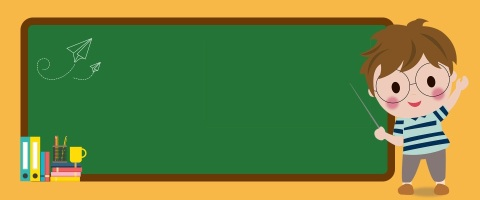
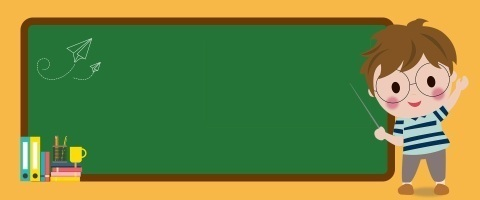
Update img post my class teacher

Changed region(s): [[0.0312, 0.69, 0.1875, 0.9]]

diff --git a/client/src/pages/teacher/my-class/post/TeacherPostMyClass.js b/client/src/pages/teacher/my-class/post/TeacherPostMyClass.js
@@ -1,5 +1,5 @@
 import "./styleTeacherPostMyClass.css";
-import { Button, Card, Dropdown, Menu, Row } from "antd";
+import { Button, Card, Dropdown, Menu, Modal, Row } from "antd";
 import { useEffect } from "react";
 import { useState } from "react";
 import { useParams } from "react-router";
@@ -31,7 +31,8 @@ const TeacherPostMyClass = () => {
   const [currentPage, setCurrentPage] = useState(1);
   const [totalPage, setTotalPage] = useState(0);
   const [seeMore, setSeeMore] = useState(true);
-
+  const [idDelete, setIdDelete] = useState("");
+  const [visibleDelete, setVisibleDelete] = useState(false);
   useEffect(() => {
     window.scrollTo(0, 0);
     document.title = "Bảng điều khiển - bài viết";
@@ -69,6 +70,7 @@ const TeacherPostMyClass = () => {
     setShowUpdate(value);
     setShowUpdateIndex(null);
   };
+
   const featchPost = async (idClass) => {
     setLoading(false);
     try {
@@ -76,7 +78,7 @@ const TeacherPostMyClass = () => {
         idClass: idClass,
         idTeacher: giangVienCurrent.id,
         page: currentPage,
-        size: 5,
+        size: 8,
       };
       await TeacherPostAPI.getPagePost(data).then((responese) => {
         dispatch(SetPost(responese.data.data.data));
@@ -93,7 +95,7 @@ const TeacherPostMyClass = () => {
         idClass: idClass,
         idTeacher: giangVienCurrent.id,
         page: currentPage,
-        size: 5,
+        size: 8,
       };
       await TeacherPostAPI.getPagePost(data).then((responese) => {
         dispatch(NextPagePost(responese.data.data.data));
@@ -111,6 +113,20 @@ const TeacherPostMyClass = () => {
     } catch (error) {
       alert("Lỗi hệ thống, vui lòng F5 lại trang !");
     }
+  };
+
+  const showModal = (id) => {
+    setVisibleDelete(true);
+    setIdDelete(id);
+  };
+  const handleOkDelete = () => {
+    clickDelete(idDelete);
+    setVisibleDelete(false);
+    setIdDelete("");
+  };
+  const handleCancelDelete = () => {
+    setVisibleDelete(false);
+    setIdDelete("");
   };
   const clickDelete = async (id) => {
     try {
@@ -133,10 +149,19 @@ const TeacherPostMyClass = () => {
     }/${date.getFullYear()} ${date.getHours()}:${date.getMinutes()} `;
     return format;
   };
-
   const data = useAppSelector(GetPost);
   return (
     <>
+      <Modal
+        title="Xác nhận xóa"
+        visible={visibleDelete}
+        onOk={handleOkDelete}
+        onCancel={handleCancelDelete}
+        okText="Xóa"
+        cancelText="Hủy"
+      >
+        <p>Bạn có chắc chắn muốn xóa bài viết?</p>
+      </Modal>
       {!loading && <LoadingIndicator />}
       <div className="box-one">
         <Link to="/teacher/my-class" style={{ color: "black" }}>
@@ -231,13 +256,7 @@ const TeacherPostMyClass = () => {
               <hr />
             </div>
           </div>
-          <div
-            className="box-image"
-            style={{
-              height: "200px",
-              width: "100%",
-            }}
-          ></div>
+          <div className="box-image"></div>
           <div className="box-post">
             <div className="box-post-left">
               <div className="box-infor" style={{ height: "140px" }}>
@@ -407,7 +426,7 @@ const TeacherPostMyClass = () => {
                                           </Menu.Item>
                                           <Menu.Item
                                             key="2"
-                                            onClick={() => clickDelete(item.id)}
+                                            onClick={() => showModal(item.id)}
                                           >
                                             Xóa
                                           </Menu.Item>

diff --git a/client/src/pages/teacher/my-class/post/styleTeacherPostMyClass.css b/client/src/pages/teacher/my-class/post/styleTeacherPostMyClass.css
@@ -4,13 +4,10 @@
   padding: 10px;
 }
 .box-image {
-  width: 1250px;
-  height: 200px;
-  /* object-fit: cover; */
-  background-image: url("../../../../assets/img/banner-post1.jpg");
+  width: 1190px;
+  height: 255px;
+  background-image: url("../../../../assets/img/banner-post2.png");
   border-radius: 5px;
-  /* height: 200px;
-  box-shadow: 0 0 10px rgb(228, 227, 227); */
 }
 .box-create {
   border-radius: 5px;
@@ -88,6 +85,6 @@
 .rich-text-editor {
   padding: 10px;
 }
-.box-create-post:hover div > p {
+.box-create-post:hover div > .link-create {
   color: #0b6cd3;
 }

diff --git a/client/src/pages/teacher/my-class/post/form-editor-update/FormEditorUpdate.js b/client/src/pages/teacher/my-class/post/form-editor-update/FormEditorUpdate.js
@@ -19,7 +19,7 @@ function EditorUpdate({ obj, showUpdate }) {
     showCharsCounter: false,
     showWordsCounter: false,
     showXPathInStatusbar: false,
-    placeholder: "Nhập bài viết mới...",
+    placeholder: "Chỉnh sửa bài viết...",
     showFullscreen: false,
     showAbout: false,
     // enter: "Br",
